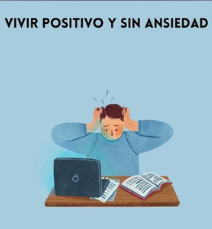
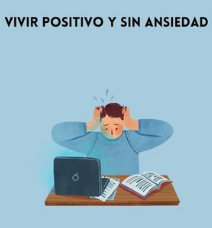
pagina recursos gratuitos

diff --git a/Proyecto_integrador/style.css b/Proyecto_integrador/style.css
@@ -1144,8 +1144,6 @@ p {
 }
 
 /* recursos gratuitos */
-.recursosGratuitos {
-}
 
 .tituloPodcast {
   margin-top: 15px;
@@ -1160,14 +1158,43 @@ p {
   width: 40px;
   height: 40px;
 }
-
 .tarjetaPodcast {
-  background-color: var(--verde-claro);
-  width: 20%;
-  height: 450px;
-  border-radius: 15px;
+  background-color: var(--verde-claro); /* Color de fondo */
+  width: 400px; /* Ancho del contenedor */
+  height: 568px;
+  border-radius: 20px; /* Bordes redondeados */
+  box-shadow: 0 4px 8px rgba(0, 0, 0, 0.1); /* Sombra ligera para dar profundidad */
+  padding: 20px; /* Espaciado interno */
+  box-sizing: border-box; /* Asegura que el padding no afecte el ancho total */
+  text-align: left; /* Alineación del texto a la izquierda */
+  font-family: "Arial", sans-serif; /* Tipo de letra */
+  margin: auto; /* Centrar el contenedor si es necesario */
 }
 
-.tarjetaPodcast img {
-  margin: auto;
+.fotoPod {
+  width: 100%; /* Asegura que la imagen ocupe todo el ancho disponible */
+  height: auto; /* Mantiene la proporción de la imagen */
+  border-radius: 15px; /* Bordes redondeados para la imagen */
+  margin-bottom: 15px; /* Espaciado debajo de la imagen */
+}
+
+.tarjetaPodcast h2 {
+  color: #333333; /* Color del título */
+  font-size: 38px; /* Tamaño de fuente para el título */
+  margin: 0; /* Remueve márgenes por defecto */
+  padding: 0;
+  font-family: "Bellefair";
+}
+
+.tarjetaPodcast p {
+  color: #333333; /* Color del párrafo */
+  font-size: 14px; /* Tamaño de fuente para el párrafo */
+  margin: 0; /* Remueve márgenes por defecto */
+  padding: 0; /* Remueve paddings por defecto */
+}
+
+.logoPodcast {
+  width: 50px; /* Ancho del logo */
+  height: auto; /* Mantiene la proporción del logo */
+  margin-top: 15px; /* Espaciado encima del logo */
 }

diff --git a/Proyecto_integrador/recursosGratuitos.html b/Proyecto_integrador/recursosGratuitos.html
@@ -76,10 +76,10 @@
             </div>
 
             <div class="tarjetaPodcast">
-                <img src="img/pdct.png" alt="podcast1">
-                <h4>Vivir positivo y sin ansiedad</h4>
+                <img class="fotoPod" src="img/pdct.png" alt="podcast1">
+                <h2>Vivir positivo y sin ansiedad</h2>
                 <p> By UTVCO</p>
-                <img src="img/Spotify2.png" alt="">
+                <img class="logoPodcast" src="img/Spotify2.png" alt="podcast logo">
             </div>
             <div>
 
